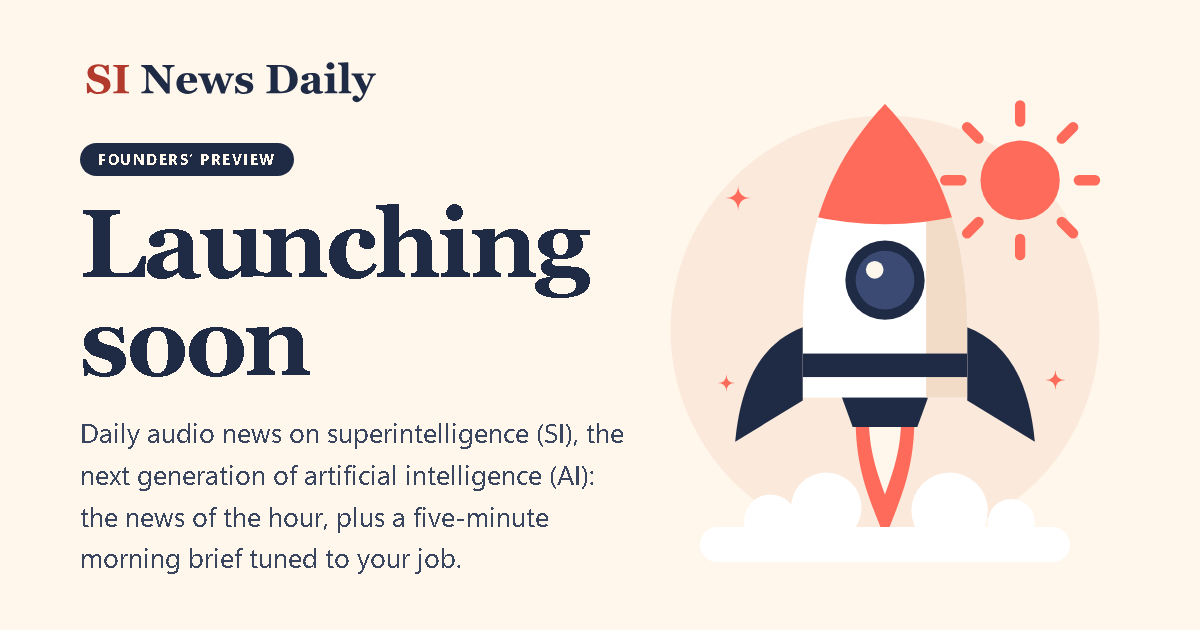
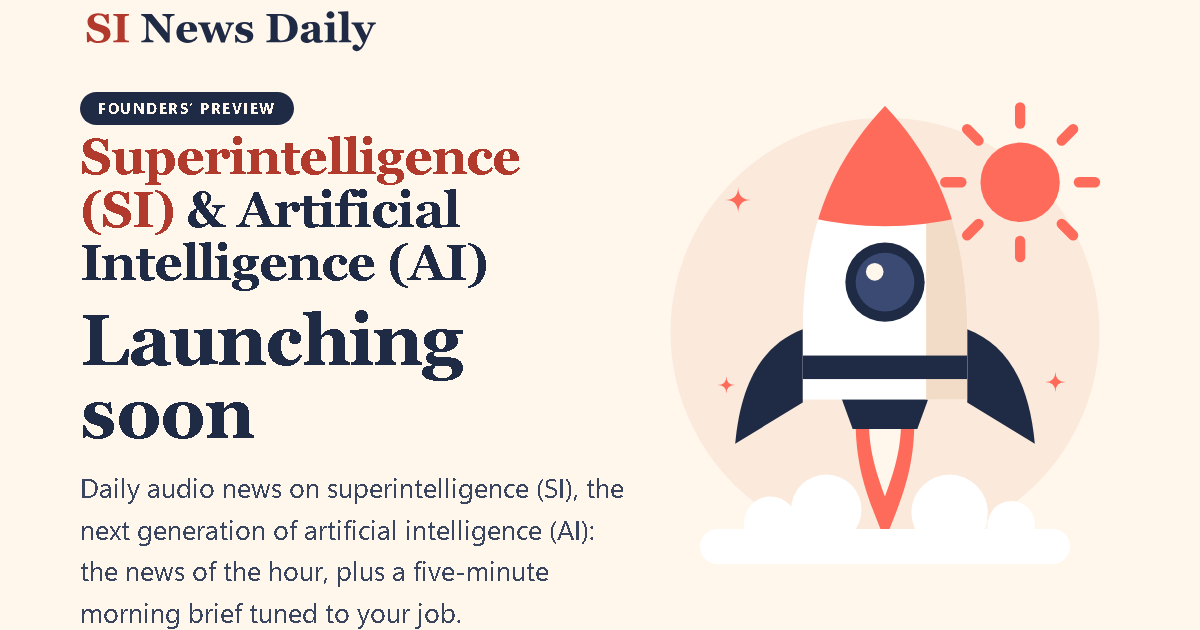
Superintelligence (SI) & Artificial Intelligence (AI) big, bold, front and center (his 10-03 18:59)

diff --git a/index.html b/index.html
@@ -33,6 +33,7 @@
          (same file name), or drop in a PNG/SVG and change src, width and height here. See README.md. -->
     <a class="brand" href="/" aria-label="SI News Daily, home"><img class="logo" id="logo" src="assets/logo.svg" width="190" height="38" alt="SI News Daily"></a>
   </header>
+  <p class="terms"><span class="t-si">Superintelligence (SI)</span> <span class="t-amp">&amp;</span> <span class="t-ai">Artificial Intelligence (AI)</span></p>
   <main id="main">
     <div class="stage">
 <svg class="rocket" viewBox="0 0 320 360" aria-hidden="true" focusable="false">
@@ -61,8 +62,6 @@
     </div>
     <div class="copy">
       <p class="pill">Founders&rsquo; Preview</p>
-      <p class="topic">Superintelligence (SI) &middot; Artificial Intelligence (AI)</p>
-
       <h1><span class="sr">SI News Daily: </span>Launching soon</h1>
       <p class="lead">Daily audio news on superintelligence (SI), the next generation of artificial intelligence (AI): the news of the hour, plus a five-minute morning brief tuned to your job.</p>
       <form class="join" id="join" novalidate>

diff --git a/assets/style.css b/assets/style.css
@@ -77,4 +77,8 @@ footer{padding-top:24px;text-align:center;font-size:.875rem;color:var(--muted)}
   footer{text-align:left}
 }
 
-.topic{margin:.2rem 0 .4rem;font-weight:700;font-size:clamp(1.05rem,2.6vw,1.35rem);letter-spacing:.01em;line-height:1.35}
+.terms{margin:16px auto 2px;max-width:24ch;text-align:center;font:800 clamp(1.75rem,7.6vw,3.6rem)/1.06 var(--display);letter-spacing:-.02em;text-wrap:balance;color:var(--ink)}
+.terms .t-si{color:var(--accent)}
+.terms .t-pre{display:block;margin:0 0 .5rem;font:700 clamp(.95rem,2.8vw,1.2rem)/1.3 var(--sans);letter-spacing:.01em;color:var(--ink2)}
+h1{font-size:clamp(2rem,8vw,3rem)}
+@media (min-width:900px){.terms{max-width:none;margin-top:26px}h1{font-size:clamp(2.4rem,3.6vw,3rem)}}
